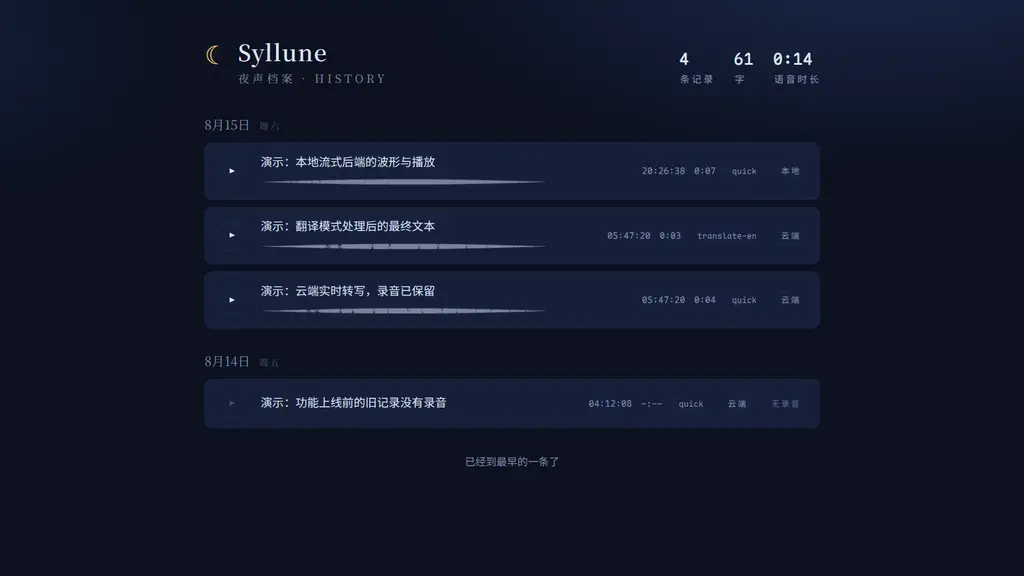
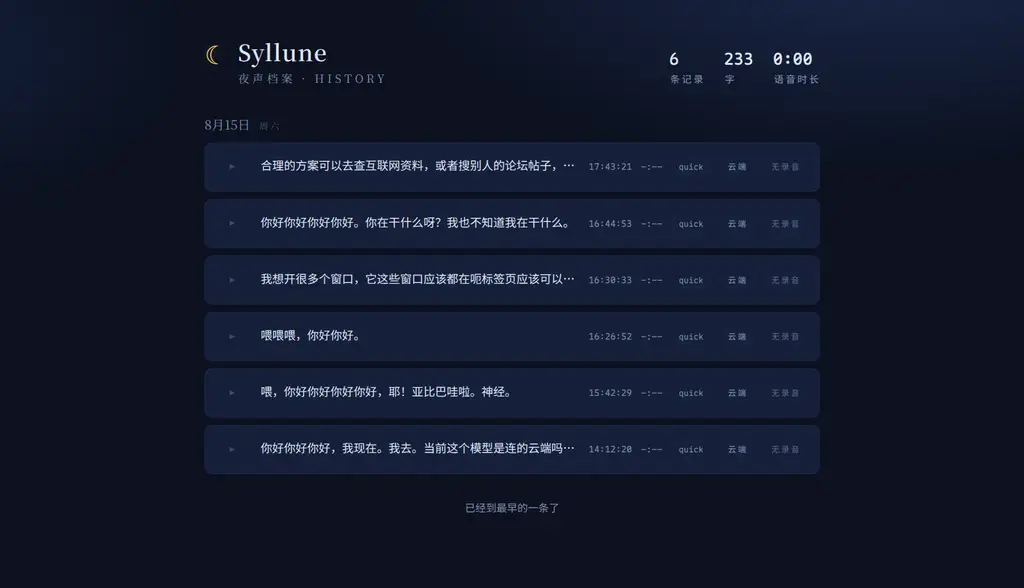
docs: use real-history screenshot for the console list view
The list screenshot now shows the author's real history (all rows
predate audio retention, hence the no-recording chip). The playback
screenshot stays synthetic demo audio; captions state the source of
each image.

diff --git a/README.md b/README.md
@@ -202,9 +202,9 @@ syllune history serve            # http://127.0.0.1:8790/
 syllune history serve --port 9000
 ```
 
-![Syllune history console: records grouped by day, waveforms rendered from the saved recordings](docs/images/history-console.png)
+![Syllune history console with a real history: records grouped by day; rows recorded before audio retention show the no-recording chip](docs/images/history-console.png)
 
-![Console playback: expanded record with waveform, progress bar and final text](docs/images/history-console-playing.png)
+![Console playback with synthetic demo audio: expanded record with waveform, progress bar and final text](docs/images/history-console-playing.png)
 
 The console is one embedded page. It listens only on the loopback address. It shows:
 

diff --git a/README.zh.md b/README.zh.md
@@ -202,9 +202,9 @@ syllune history serve            # http://127.0.0.1:8790/
 syllune history serve --port 9000
 ```
 
-![Syllune 夜声档案：按天分组的记录，波形从保存的录音渲染](docs/images/history-console.png)
+![Syllune 夜声档案真实历史：按天分组；录音保留上线前的记录显示无录音标签](docs/images/history-console.png)
 
-![控制台播放态：展开的记录，含波形、进度条与最终文本](docs/images/history-console-playing.png)
+![控制台播放态（合成演示音频）：展开的记录，含波形、进度条与最终文本](docs/images/history-console-playing.png)
 
 控制台是单个内嵌页面，只监听回环地址。它显示：
 
